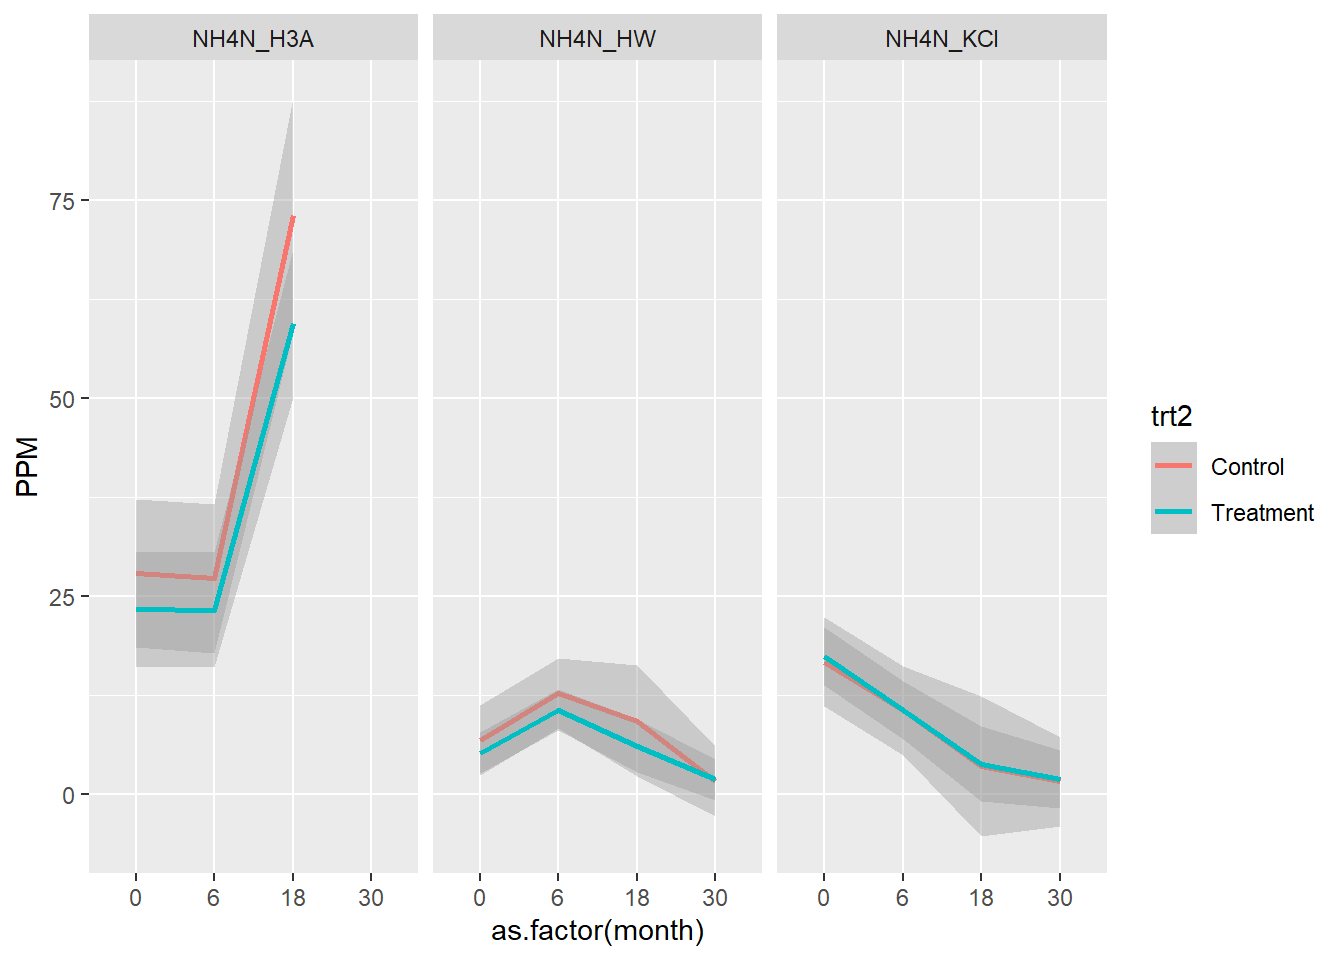
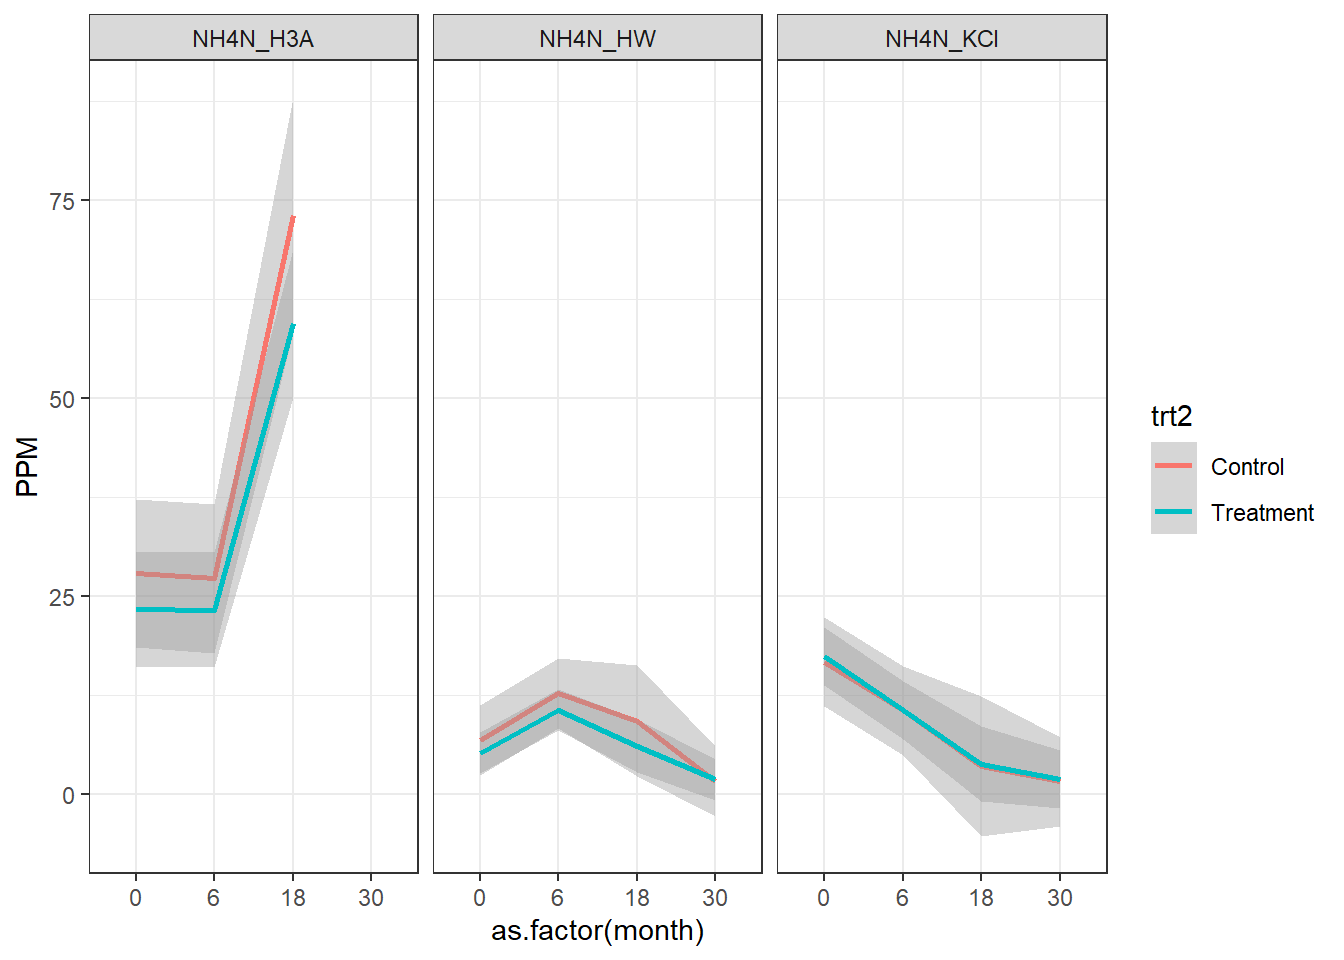
Fixed graphs for cattail section

diff --git a/docs/Cattail_Harvest_Project.html b/docs/Cattail_Harvest_Project.html
@@ -377,7 +377,7 @@ div.tocify {
 
 <p>
 <button type="button" class="btn btn-default btn-workflowr btn-workflowr-report" data-toggle="collapse" data-target="#workflowr-report">
-<span class="glyphicon glyphicon-list" aria-hidden="true"></span> workflowr <span class="glyphicon glyphicon-ok text-success" aria-hidden="true"></span>
+<span class="glyphicon glyphicon-list" aria-hidden="true"></span> workflowr <span class="glyphicon glyphicon-exclamation-sign text-danger" aria-hidden="true"></span>
 </button>
 </p>
 <div id="workflowr-report" class="collapse">
@@ -386,7 +386,7 @@ div.tocify {
 <a data-toggle="tab" href="#summary">Summary</a>
 </li>
 <li>
-<a data-toggle="tab" href="#checks"> Checks <span class="glyphicon glyphicon-ok text-success" aria-hidden="true"></span> </a>
+<a data-toggle="tab" href="#checks"> Checks <span class="glyphicon glyphicon-exclamation-sign text-danger" aria-hidden="true"></span> </a>
 </li>
 <li>
 <a data-toggle="tab" href="#versions">Past versions</a>
@@ -395,10 +395,10 @@ div.tocify {
 <div class="tab-content">
 <div id="summary" class="tab-pane fade in active">
 <p>
-<strong>Last updated:</strong> 2022-05-04
+<strong>Last updated:</strong> 2022-05-05
 </p>
 <p>
-<strong>Checks:</strong> <span class="glyphicon glyphicon-ok text-success" aria-hidden="true"></span> 7 <span class="glyphicon glyphicon-exclamation-sign text-danger" aria-hidden="true"></span> 0
+<strong>Checks:</strong> <span class="glyphicon glyphicon-ok text-success" aria-hidden="true"></span> 6 <span class="glyphicon glyphicon-exclamation-sign text-danger" aria-hidden="true"></span> 1
 </p>
 <p>
 <strong>Knit directory:</strong> <code>myproject/</code> <span class="glyphicon glyphicon-question-sign" aria-hidden="true" title="This is the local directory in which the code in this file was executed."> </span>
@@ -414,12 +414,12 @@ This reproducible <a href="https://rmarkdown.rstudio.com">R Markdown</a> analysi
 <div class="panel panel-default">
 <div class="panel-heading">
 <p class="panel-title">
-<a data-toggle="collapse" data-parent="#workflowr-checks" href="#strongRMarkdownfilestronguptodate"> <span class="glyphicon glyphicon-ok text-success" aria-hidden="true"></span> <strong>R Markdown file:</strong> up-to-date </a>
+<a data-toggle="collapse" data-parent="#workflowr-checks" href="#strongRMarkdownfilestronguncommittedchanges"> <span class="glyphicon glyphicon-exclamation-sign text-danger" aria-hidden="true"></span> <strong>R Markdown file:</strong> uncommitted changes </a>
 </p>
 </div>
-<div id="strongRMarkdownfilestronguptodate" class="panel-collapse collapse">
+<div id="strongRMarkdownfilestronguncommittedchanges" class="panel-collapse collapse">
 <div class="panel-body">
-<p>Great! Since the R Markdown file has been committed to the Git repository, you know the exact version of the code that produced these results.</p>
+<p>The R Markdown file has unstaged changes. To know which version of the R Markdown file created these results, you’ll want to first commit it to the Git repo. If you’re still working on the analysis, you can ignore this warning. When you’re finished, you can run <code>wflow_publish</code> to commit the R Markdown file and build the HTML.</p>
 </div>
 </div>
 </div>
@@ -486,16 +486,16 @@ This reproducible <a href="https://rmarkdown.rstudio.com">R Markdown</a> analysi
 <div class="panel panel-default">
 <div class="panel-heading">
 <p class="panel-title">
-<a data-toggle="collapse" data-parent="#workflowr-checks" href="#strongRepositoryversionstrongahrefhttpsgithubcomaverdeja16myprojecttree3477fc1ec24ac75983c4f558b4e68dc5f44860cctargetblank3477fc1a"> <span class="glyphicon glyphicon-ok text-success" aria-hidden="true"></span> <strong>Repository version:</strong> <a href="https://github.com/averdeja16/myproject/tree/3477fc1ec24ac75983c4f558b4e68dc5f44860cc" target="_blank">3477fc1</a> </a>
+<a data-toggle="collapse" data-parent="#workflowr-checks" href="#strongRepositoryversionstrongahrefhttpsgithubcomaverdeja16myprojecttree39a85c0c5921bfff93880291c3099e1c857a6e0etargetblank39a85c0a"> <span class="glyphicon glyphicon-ok text-success" aria-hidden="true"></span> <strong>Repository version:</strong> <a href="https://github.com/averdeja16/myproject/tree/39a85c0c5921bfff93880291c3099e1c857a6e0e" target="_blank">39a85c0</a> </a>
 </p>
 </div>
[2 lines of base64/hex data omitted]
 <div class="panel-body">
 <p>
 Great! You are using Git for version control. Tracking code development and connecting the code version to the results is critical for reproducibility.
 </p>
 <p>
-The results in this page were generated with repository version <a href="https://github.com/averdeja16/myproject/tree/3477fc1ec24ac75983c4f558b4e68dc5f44860cc" target="_blank">3477fc1</a>. See the <em>Past versions</em> tab to see a history of the changes made to the R Markdown and HTML files.
+The results in this page were generated with repository version <a href="https://github.com/averdeja16/myproject/tree/39a85c0c5921bfff93880291c3099e1c857a6e0e" target="_blank">39a85c0</a>. See the <em>Past versions</em> tab to see a history of the changes made to the R Markdown and HTML files.
 </p>
 <p>
 Note that you need to be careful to ensure that all relevant files for the analysis have been committed to Git prior to generating the results (you can use <code>wflow_publish</code> or <code>wflow_git_commit</code>). workflowr only checks the R Markdown file, but you know if there are other scripts or data files that it depends on. Below is the status of the Git repository when the results were generated:
@@ -504,6 +504,9 @@ Note that you need to be careful to ensure that all relevant files for the analy
 Ignored files:
     Ignored:    .Rhistory
     Ignored:    .Rproj.user/
+
+Unstaged changes:
+    Modified:   analysis/Cattail_Harvest_Project.Rmd
 
 </code></pre>
 <p>
@@ -542,6 +545,23 @@ Message
 </tr>
 </thead>
 <tbody>
+<tr>
+<td>
+html
+</td>
+<td>
+<a href="https://rawcdn.githack.com/averdeja16/myproject/39a85c0c5921bfff93880291c3099e1c857a6e0e/docs/Cattail_Harvest_Project.html" target="_blank">39a85c0</a>
+</td>
+<td>
+Jane
+</td>
+<td>
+2022-05-04
+</td>
+<td>
+knitted changes
+</td>
+</tr>
 <tr>
 <td>
 Rmd
@@ -604,7 +624,7 @@ Ammounium Graphs
 <h2>Introduction</h2>
 <div id="this-project-focused-on-influencing-farmers-to-implent-harvested-cattails-to-their-soil-as-fertilizer.-this-project-is-meant-to-reduce-the-amount-of-invasive-cattails-as-well-as-reduce-the-nutrient-load-that-goes-into-the-saginaw-bay-watershed.-this-figure-presents-the-effects-that-different-treatments-have-on-ammonium-levels." class="section level3">
 <h3>This project focused on influencing farmers to implent harvested cattails to their soil as fertilizer. This project is meant to reduce the amount of invasive cattails as well as reduce the nutrient load that goes into the Saginaw Bay Watershed. This figure presents the effects that different treatments have on ammonium levels.</h3>
-<p><img src="figure/Cattail_Harvest_Project.Rmd/Treatment%20Tables-1.png" width="672" style="display: block; margin: auto;" /></p>
+<p><img src="figure/Cattail_Harvest_Project.Rmd/Treatment%20Tables-1.png" width="672" style="display: block; margin: auto;" /><img src="figure/Cattail_Harvest_Project.Rmd/Treatment%20Tables-2.png" width="672" style="display: block; margin: auto;" /></p>
 <br>
 <p>
 <button type="button" class="btn btn-default btn-workflowr btn-workflowr-sessioninfo" data-toggle="collapse" data-target="#workflowr-sessioninfo" style="display: block;">
